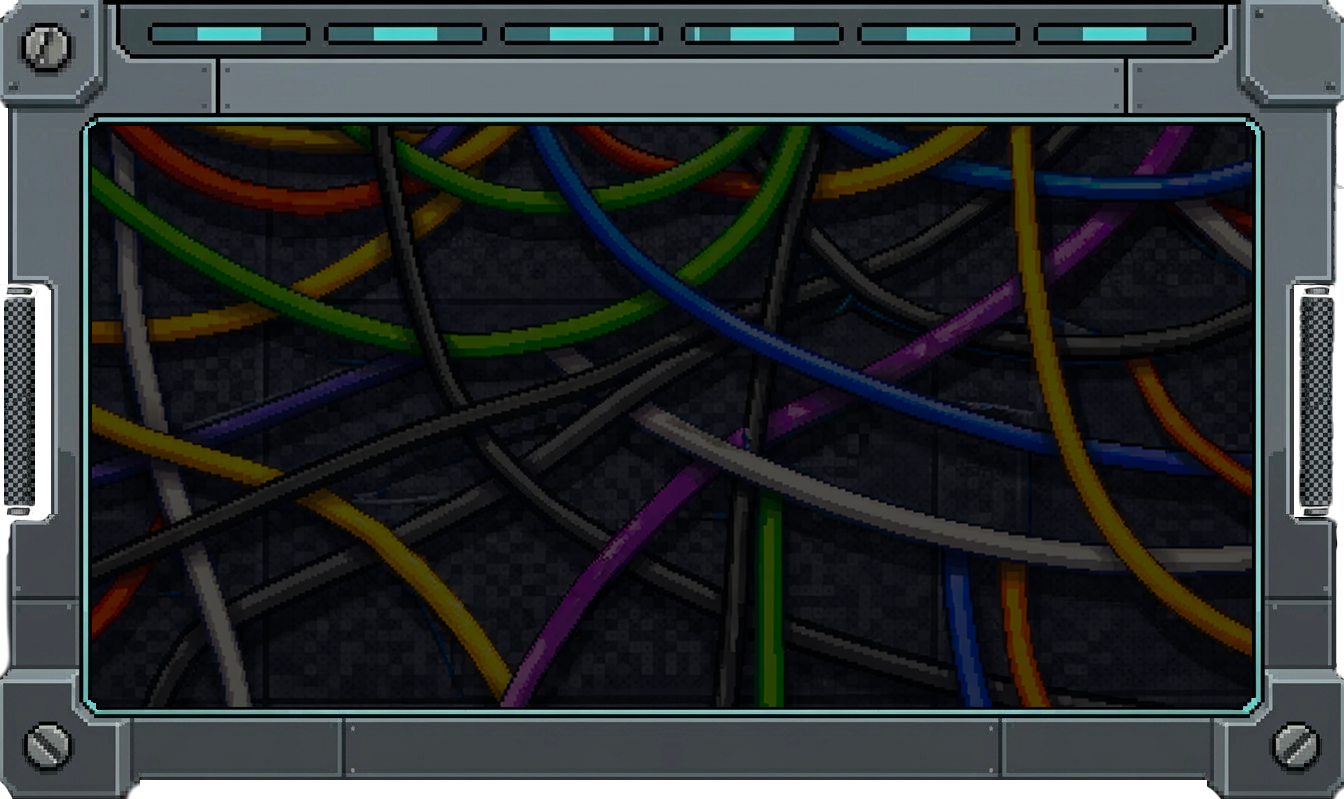
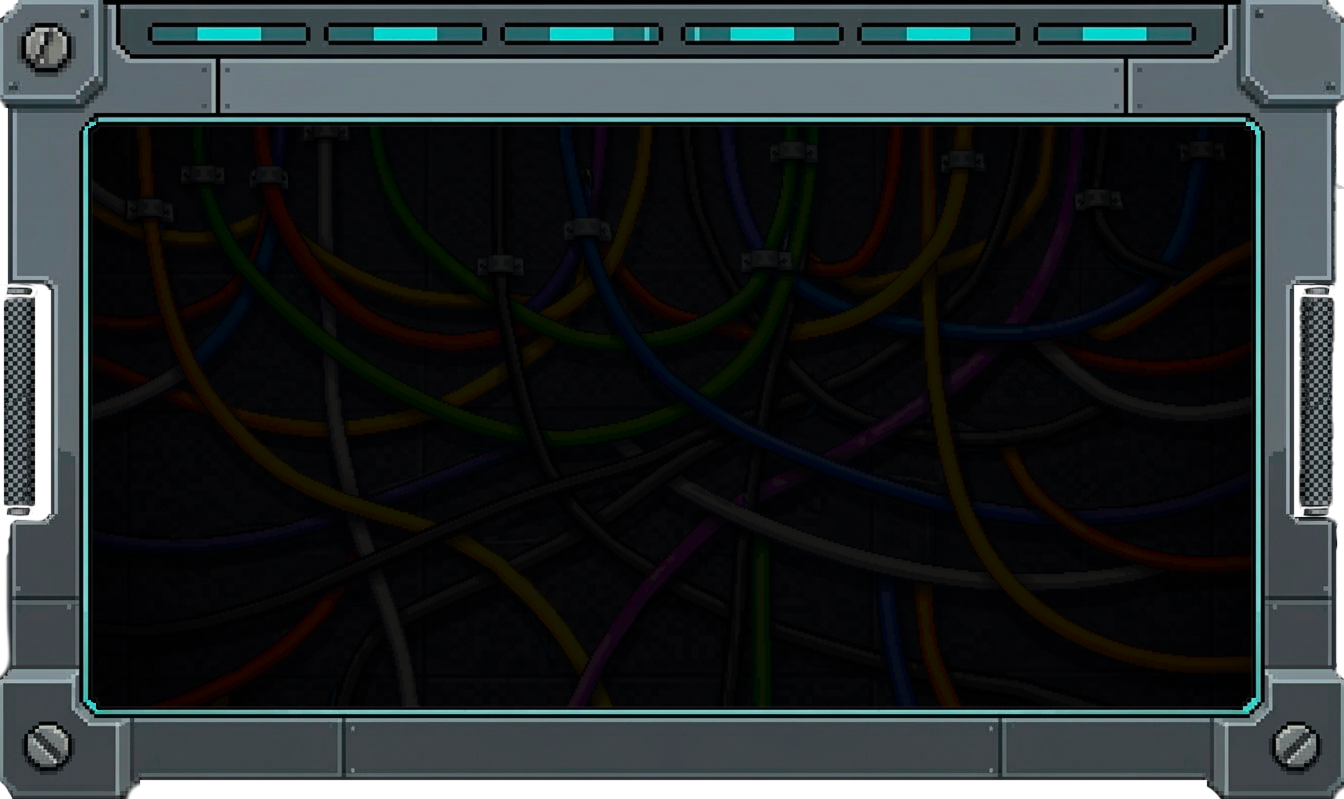
feat: change layout, assets (minigame1)

diff --git a/src/game/scenes/Minigame1.ts b/src/game/scenes/Minigame1.ts
@@ -77,12 +77,30 @@ export default class Minigame1 extends Phaser.Scene {
   private draggingPointerId?: number;
 
   private readonly externalBoxKey = "minigame1-external-box";
+  private readonly accessGrantedKey = "minigame1-access-granted";
+  private readonly bgKey = "minigame1-bg";
 
   preload() {
   this.load.image(
     this.externalBoxKey,
     "../assets/images/minigame1/minigame1-external-box.png"
   );
+
+  this.load.image(
+    this.externalBoxKey,
+    "../assets/images/min3/minigame1-external-box.png"
+  );
+
+  this.load.image(
+    this.accessGrantedKey,
+    "../assets/images/min3/Access_granted.png"
+  );
+
+  this.load.image(
+    this.bgKey,
+    "../assets/images/minigame1/bg-min1.png"
+  );
+
 }
 
   constructor() {
@@ -92,33 +110,44 @@ export default class Minigame1 extends Phaser.Scene {
   // ─── Lifecycle ──────────────────────────────────────────────────────────────
 
   create() {
-    const { width, height } = this.scale;
+const { width, height } = this.scale;
 
-    this.scale.off("resize");
-    this.scale.on("resize", () => this.scene.restart());
+  this.scale.off("resize");
+  this.scale.on("resize", () => this.scene.restart());
 
-    this.wires = [];
-    this.sockets = [];
+  this.wires = [];
+  this.sockets = [];
 
-    //this.add.rectangle(width / 2, height / 2, width, height, 0x000000, 0.82);
-    this.computeResponsiveLayout(width, height);
-    this.drawTablet();
-    this.createCloseButton();
-    this.createHeaderTexts();
-    this.createAlerts();
-    this.createSocketsAndWires();
+  this.computeResponsiveLayout(width, height);
+  this.drawBackground();
+  this.drawTablet();
+  this.createCloseButton();
+  this.createHeaderTexts();
+  this.createAlerts();
+  this.createSocketsAndWires();
 
-    this.input.on("pointermove", this.onPointerMove, this);
-    this.input.on("pointerup", this.onPointerUp, this);
-    this.input.on("pointerupoutside", this.onPointerUp, this);
+  this.input.on("pointermove", this.onPointerMove, this);
+  this.input.on("pointerup", this.onPointerUp, this);
+  this.input.on("pointerupoutside", this.onPointerUp, this);
 
-    this.events.once(Phaser.Scenes.Events.SHUTDOWN, () => {
-      this.input.off("pointermove", this.onPointerMove, this);
-      this.input.off("pointerup", this.onPointerUp, this);
-      this.input.off("pointerupoutside", this.onPointerUp, this);
-    });
+  this.events.once(Phaser.Scenes.Events.SHUTDOWN, () => {
+    this.input.off("pointermove", this.onPointerMove, this);
+    this.input.off("pointerup", this.onPointerUp, this);
+    this.input.off("pointerupoutside", this.onPointerUp, this);
+  });
+    
   }
 
+private drawBackground() {
+  const { width, height } = this.scale;
+
+  const bg = this.add
+    .image(width / 2, height / 2, this.bgKey)
+    .setDepth(-100);
+
+  const scale = Math.max(width / bg.width, height / bg.height);
+  bg.setScale(scale);
+}
   // ─── Layout ─────────────────────────────────────────────────────────────────
 
   private computeResponsiveLayout(width: number, height: number) {
@@ -150,85 +179,74 @@ export default class Minigame1 extends Phaser.Scene {
   }
 
   private createHeaderTexts() {
-    const titleSize = Math.round(this.s(34));
+  const titleSize = Math.round(this.s(34));
 
-    this.add
-      .text(
-        this.boardX,
-        this.boardY - this.boardH / 2 - this.s(-80),
-        "CROSS-WIRE BREACH",
-        {
-          fontFamily: "Pixelify Sans",
-          fontSize: `${titleSize}px`,
-          color: "#ffffff",
-          fontStyle: "bold",
-/*           stroke: "#0e2f12",
-          strokeThickness: Math.max(3, Math.round(this.s(5))),
- */        }
-      )
-      .setOrigin(0.5)
-      .setDepth(200);
-
-    const hintY = this.screenY - this.screenH / 2 + this.screenH * 0.095;
-    const hintBg = this.add
-      .rectangle(
-        this.screenX,
-        hintY,
-        this.screenW * 0.64,
-        Math.max(34, this.s(38)),
-        0x10202a,
-        0.88
-      )
-      .setOrigin(0.5)
-      .setStrokeStyle(2, 0x39f4ff, 0.35)
-      .setAlpha(0);
-
-    const hintText = this.add
-      .text(
-        this.screenX,
-        hintY,
-        "RESTORE THE CIRCUIT BY MATCHING COLORS",
-        {
-          fontFamily: "Pixelify Sans",
-          fontSize: `${Math.max(22, Math.round(this.s(16)))}px`,
-          color: "#bafcff",
-          align: "center",
-        }
-      )
-      .setOrigin(0.5)
-      .setAlpha(1);
-
-    const targets = [hintBg, hintText];
-    this.tweens.add({ targets, alpha: 1, duration: 1250, ease: "Sine.Out" });
-    this.tweens.add({ targets, alpha: 0, duration: 1500, delay: 1900, ease: "Sine.In" });
-  }
-
-  private createAlerts() {
-    const alertY = this.screenY - this.screenH / 2 + this.screenH * 0.055;
-
-    this.alertBg = this.add
-      .rectangle(
-        this.screenX,
-        alertY,
-        this.screenW * 0.30,
-        Math.max(24, this.s(30)),
-        0xff2f3d,
-        0.92
-      )
-      .setOrigin(0.5)
-      .setStrokeStyle(2, 0xffffff, 0.18)
-      .setAlpha(0);
-
-    this.alertText = this.add
-      .text(this.screenX, alertY, "", {
+  this.add
+    .text(
+      this.boardX,
+      this.boardY - this.boardH / 2 - this.s(-80),
+      "CROSS-WIRE BREACH",
+      {
         fontFamily: "Pixelify Sans",
-        fontSize: `${Math.max(12, Math.round(this.s(16)))}px`,
+        fontSize: `${titleSize}px`,
         color: "#ffffff",
         fontStyle: "bold",
-      })
-      .setOrigin(0.5)
-      .setAlpha(0);
-  }
+      }
+    )
+    .setOrigin(0.5)
+    .setDepth(200);
+
+  const hintY = this.screenY - this.screenH / 2 + this.screenH * 0.095;
+
+  const hintText = this.add
+    .text(
+      this.screenX,
+      hintY,
+      "RESTORE THE CIRCUIT BY MATCHING COLORS",
+      {
+        fontFamily: "Pixelify Sans",
+        fontSize: `${Math.max(22, Math.round(this.s(33)))}px`,
+        color: "#bafcff",
+        align: "center",
+        fontStyle: "bold",
+      }
+    )
+    .setOrigin(0.5)
+    .setAlpha(0);
+
+  this.tweens.add({
+    targets: hintText,
+    alpha: 1,
+    duration: 1250,
+    ease: "Sine.Out"
+  });
+
+  this.tweens.add({
+    targets: hintText,
+    alpha: 0,
+    duration: 1500,
+    delay: 1900,
+    ease: "Sine.In"
+  });
+}
+
+  private createAlerts() {
+  const alertY = this.screenY;
+
+  this.alertText = this.add
+    .text(this.screenX, alertY, "", {
+      fontFamily: "Pixelify Sans",
+      fontSize: `${Math.max(26, Math.round(this.s(27)))}px`,
+      color: "#ff2f3d",
+      fontStyle: "bold",
+      align: "center",
+      stroke: "#000000",
+      strokeThickness: Math.max(2, Math.round(this.s(5))),
+    })
+    .setOrigin(0.5)
+    .setDepth(900)
+    .setAlpha(0);
+}
 
   private createCloseButton() {
   const closeX = this.boardX + this.boardW / 2 - this.s(42);
@@ -872,46 +890,111 @@ export default class Minigame1 extends Phaser.Scene {
   }
 
   private checkWin() {
-    if (!this.wires.every(w => w.connected)) return;
+  if (!this.wires.every(w => w.connected)) return;
 
-    const winY = this.screenY + this.screenH / 2 - this.screenH * 0.05;
-    const winBg = this.add
-      .rectangle(
-        this.screenX, winY,
-        this.screenW * 0.42,
-        Math.max(30, this.s(36)),
-        0x1a3a31, 0.88
-      )
-      .setStrokeStyle(2, 0x70fdc2, 0.45)
-      .setOrigin(0.5);
+  this.registry.set("task1Completed", true);
 
-    const winText = this.add
-      .text(this.screenX, winY, "COMPLETED: ACCESS UNLOCKED", {
-        fontFamily: "Pixelify Sans",
-        fontSize: `${Math.max(18, Math.round(this.s(22)))}px`,
-        color: "#70fdc2",
-        fontStyle: "bold",
-      })
-      .setOrigin(0.5);
+  // blocca input
+  this.input.enabled = false;
+  this.draggingWire = undefined;
+  this.draggingPointerId = undefined;
 
-    this.registry.set("task1Completed", true);
-    this.tweens.add({ targets: [winBg, winText], alpha: 0.72, duration: 260, yoyo: true, repeat: 2 });
-    this.time.delayedCall(1200, () => { this.scene.stop(); this.scene.resume("GamePlay"); });
-  }
+  // schermo nero SOLO nella parte interna del monitor
+  const blackScreen = this.add.graphics();
+blackScreen.fillStyle(0x000000, 1);
+
+const w = this.screenW + this.s(12);
+const h = this.screenH + this.s(16);
+const r = this.s(6); // angoli leggermente arrotondati
+
+blackScreen.fillRoundedRect(
+  this.screenX + this.s(0.2) - w / 2,
+  this.screenY + this.s(3.9) - h / 2,
+  w,
+  h,
+  r
+);
+
+blackScreen.setDepth(1000);
+blackScreen.setAlpha(0);
+
+  // immagine ACCESS GRANTED centrata nello schermo del monitor
+  const accessImage = this.add
+    .image(this.screenX, this.screenY, this.accessGrantedKey)
+    .setOrigin(0.5)
+    .setDepth(1001)
+    .setAlpha(0);
+
+  // scala immagine per farla stare bene dentro lo schermo
+  const maxW = this.screenW * 0.72;
+  const maxH = this.screenH * 0.28;
+  const scale = Math.min(
+    maxW / accessImage.width,
+    maxH / accessImage.height
+  );
+
+  accessImage.setScale(scale * 0.92);
+
+  this.tweens.add({
+    targets: blackScreen,
+    alpha: 1,
+    duration: 220,
+    ease: "Power2.Out"
+  });
+
+  this.tweens.add({
+    targets: accessImage,
+    alpha: 1,
+    duration: 260,
+    delay: 120,
+    ease: "Power2.Out"
+  });
+
+  this.tweens.add({
+    targets: accessImage,
+    scaleX: scale,
+    scaleY: scale,
+    duration: 240,
+    delay: 120,
+    ease: "Back.Out"
+  });
+
+  this.time.delayedCall(2000, () => {
+    this.scene.stop();
+    this.scene.resume("GamePlay");
+  });
+}
 
   // ─── Alert ──────────────────────────────────────────────────────────────────
 
-  private showAlert(message: string, hold = 500) {
-    if (!this.alertText || !this.alertBg) return;
-    this.tweens.killTweensOf([this.alertText, this.alertBg]);
-    this.alertText.setText(message);
-    this.alertBg.width = this.screenW * 0.30;
-    this.alertBg.setAlpha(0.92);
-    this.alertText.setAlpha(1);
-    this.cameras.main.shake(180, 0.006);
-    this.tweens.add({ targets: [this.alertText, this.alertBg], alpha: 0, duration: 550, delay: hold });
-  }
+  private showAlert(message: string, hold = 350) {
+  if (!this.alertText) return;
 
+  this.tweens.killTweensOf(this.alertText);
+
+  this.alertText.setText(message);
+  this.alertText.setScale(0.92);
+  this.alertText.setAlpha(0);
+
+  this.tweens.add({
+    targets: this.alertText,
+    alpha: 1,
+    scaleX: 1,
+    scaleY: 1,
+    duration: 140,
+    ease: "Power2.Out",
+    yoyo: false,
+    onComplete: () => {
+      this.tweens.add({
+        targets: this.alertText,
+        alpha: 0,
+        duration: 320,
+        delay: hold,
+        ease: "Sine.In"
+      });
+    }
+  });
+}
   // ─── Tablet drawing ─────────────────────────────────────────────────────────
 
   private drawTablet() {
